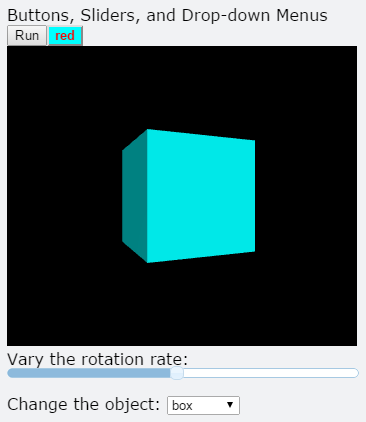
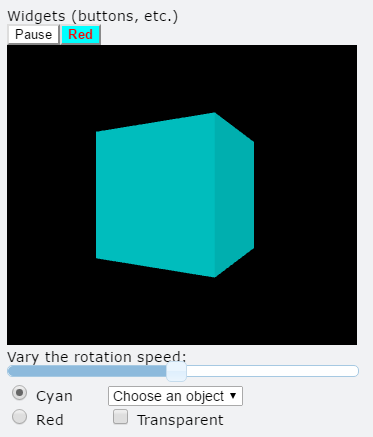
Further improvements to widget documentation.

Changed region(s): [[0.0, 0.0, 0.9918, 0.9858], [0.2404, 0.2464, 0.7213, 0.6469]]

diff --git a/docs/VPythonDocs/controls.html b/docs/VPythonDocs/controls.html
@@ -57,7 +57,7 @@ function MM_jumpMenu(targ,selObj,restore){ //v3.0
       </table>
       <div></div>
       <div class="Normal">
-        <p class="Normal">Tthe example shown above, <a href="http://www.glowscript.org/#/user/GlowScriptDemos/folder/Examples/program/ButtonsSlidersMenus-VPython" target="_blank"><strong>ButtonsSlidersMenus-VPython</strong></a>, contains buttons, a slider, and a dropdown menu. The example program <a href="http://www.glowscript.org/#/user/GlowScriptDemos/folder/Examples/program/Color-RGB-HSV-VPython" target="_blank"><strong>Color-RGB-HSV-VPython</strong></a><strong></strong> uses six sliders to explore RGB and HSV colors. </p>
+        <p class="Normal">Tthe example shown above, <a href="http://www.glowscript.org/#/user/GlowScriptDemos/folder/Examples/program/ButtonsSlidersMenus-VPython" target="_blank"><strong>ButtonsSlidersMenus-VPython</strong></a>, contains buttons, a slider, radio buttons,  a drop-down menu, and a check box. The example program <a href="http://www.glowscript.org/#/user/GlowScriptDemos/folder/Examples/program/Color-RGB-HSV-VPython" target="_blank"><strong>Color-RGB-HSV-VPython</strong></a><strong></strong> uses six sliders to explore RGB and HSV colors. </p>
         <p class="Normal"><em>These widgets are not yet available in Jupyter VPython.</em></p>
         <p class="Normal">Here is the basic idea for using button, radio buttion, checkbox, slider, and menu:</p>
         <p class="program">box()<br />
